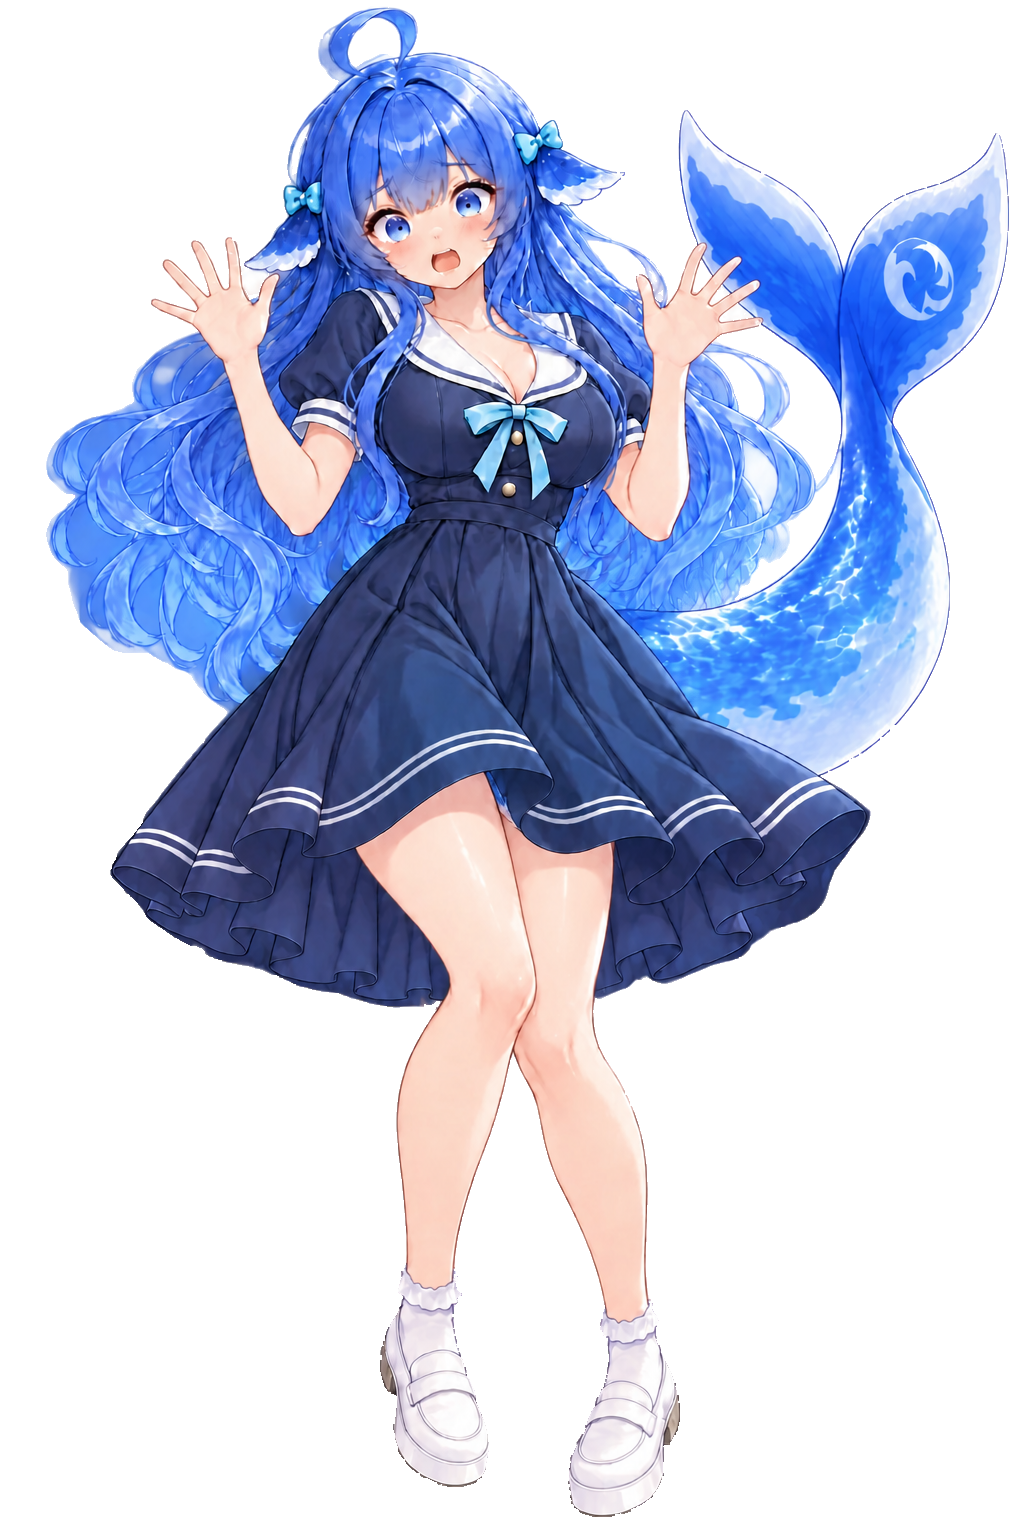
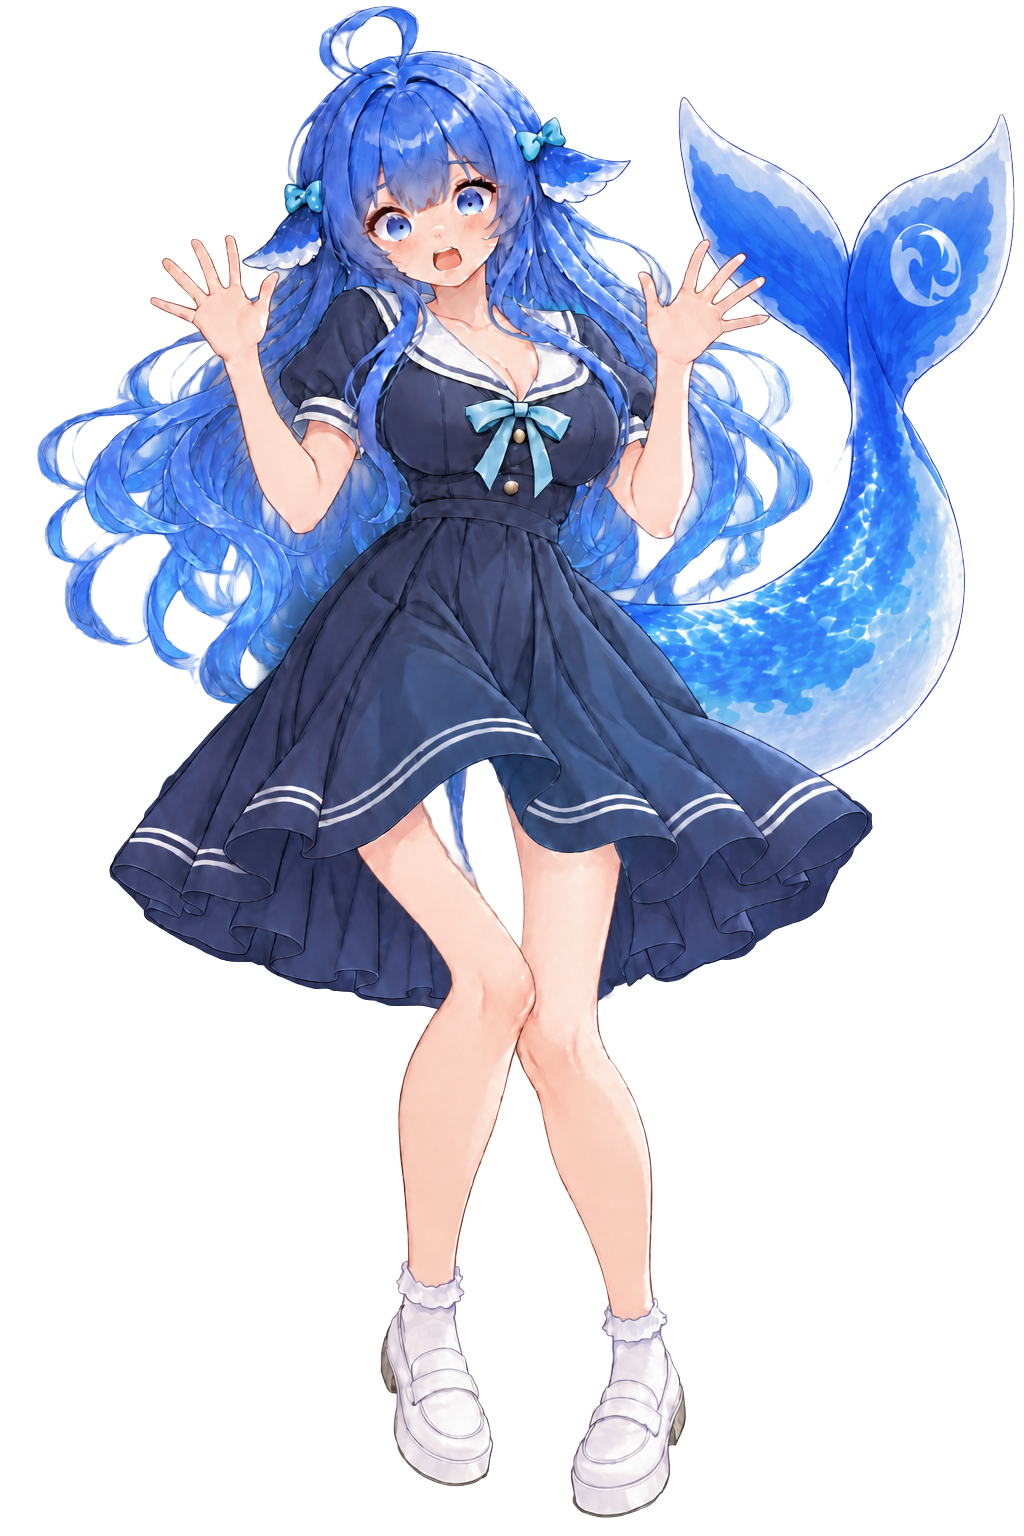
art: L06 改为 Image2.5 直出透明底，发丝间真实镂空，尾巴不变

diff --git a/docs/collab/work-ledger/playtest-ledger-20261018.md b/docs/collab/work-ledger/playtest-ledger-20261018.md
@@ -60,3 +60,8 @@
 6. C20 尾巴缠手腕：尾巴过长、像蛇。
 7. 浅滩_正午 / 上午 / 午后 三个时段共用 B02 同一张图；沙洲_上午 B08 与沙洲_午后 B09 几乎一样。光线没有时段差。
 8. #400 深海场景切换（等你方案）。
+
+## 第五轮（10-18 10:35）L06 发丝镂空
+- 用户：发丝之间的蓝色不该有，应由 Image2.5 直接出透明底。查明：浅蓝是白底生成时模型自己画进发卷之间的，不是抠图残留。
+- L06 改为 Image2.5 直接透明底生成（发丝间真实镂空），首版尾巴跑到腿间，再做一次透明底编辑去掉；尾巴形状位置与上一版一致（用户认可此图尾巴，作为其它图的尾巴基准）。
+- 立绘流程改为：Image2.5 background=transparent 直出 → 轻度去薄雾（alpha<16% 清零），不再白底+rembg。
